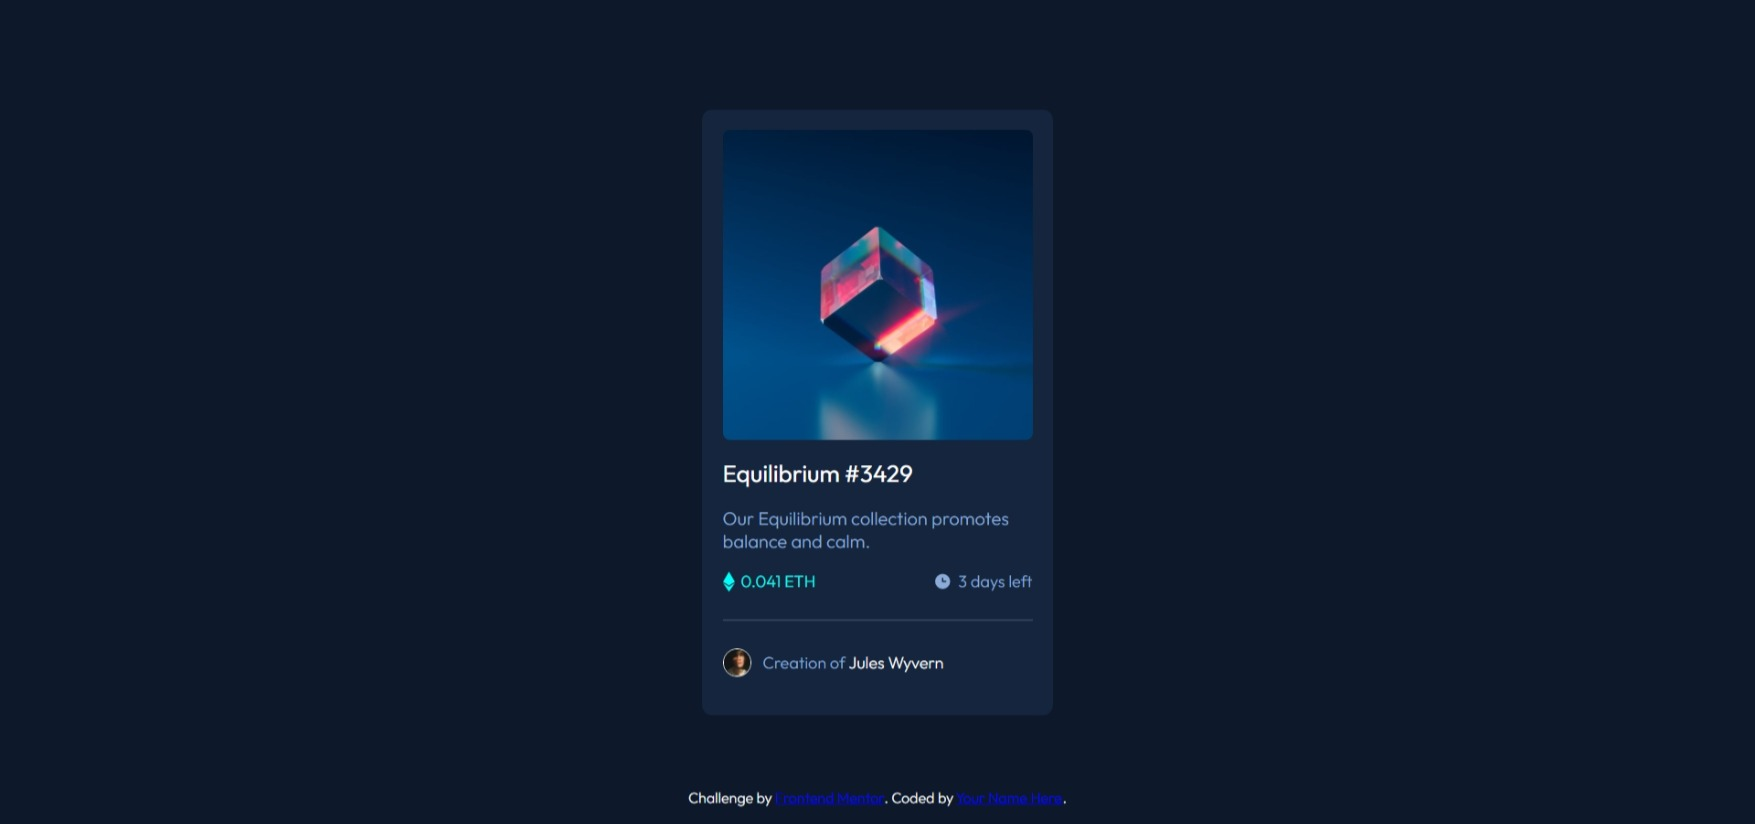
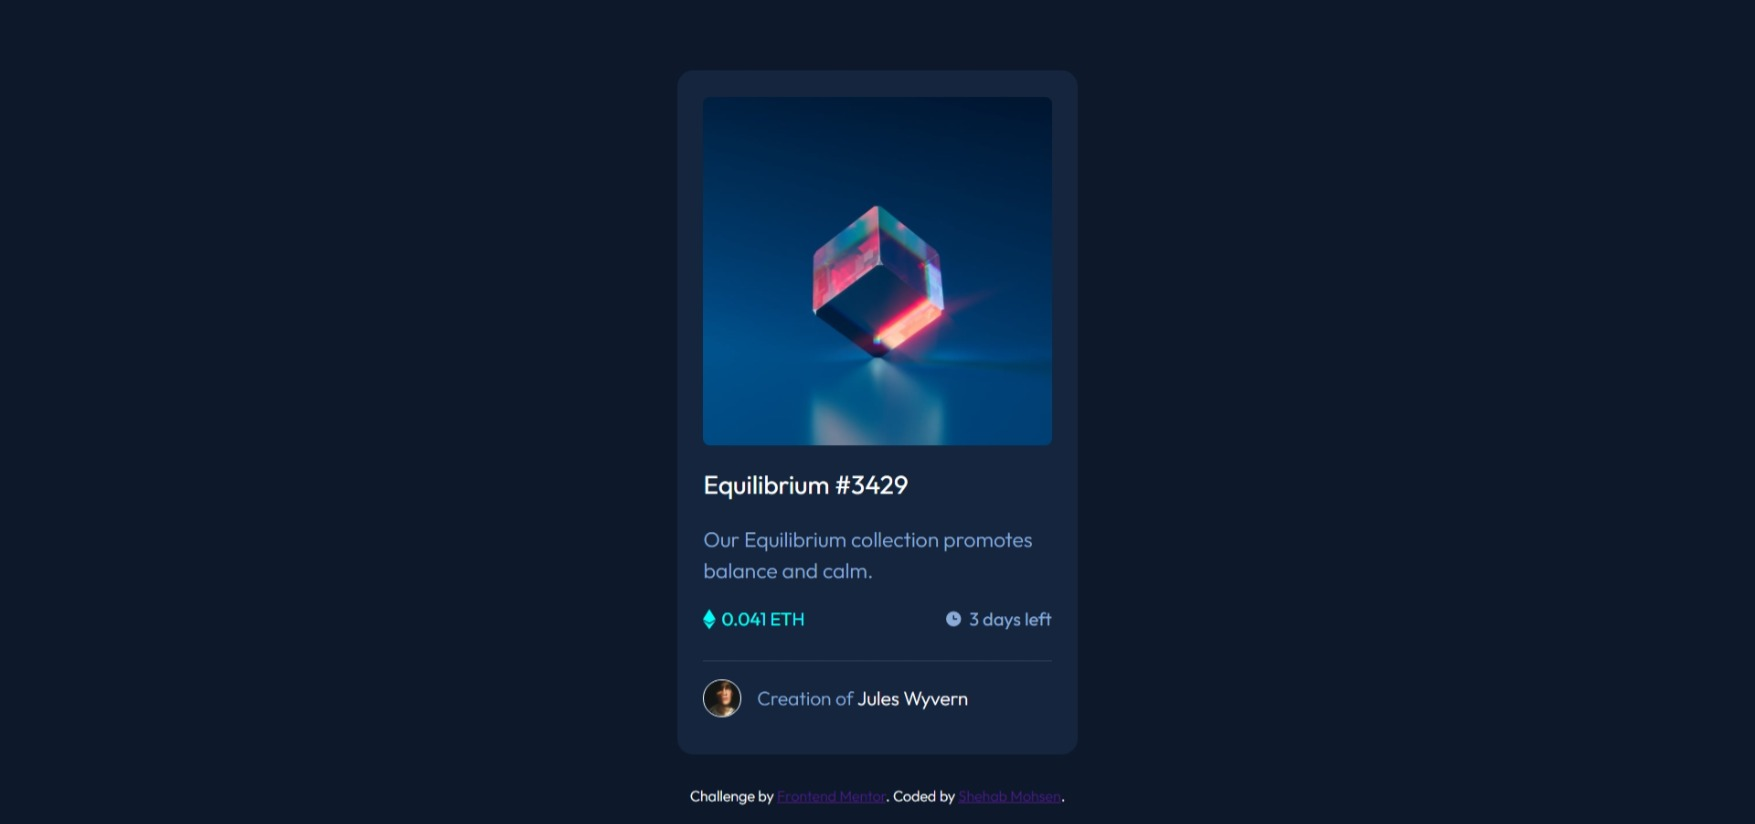
ediiting my desgin image

diff --git a/index.css b/index.css
@@ -24,7 +24,7 @@
 /* body */
 body {
   font-size: 18px;
-  /* background-color: var(--clr-body-background); */
+  background-color: var(--clr-body-background);
   color: var(--clr-soft-blue);
   font-family: "Outfit", sans-serif;
   line-height: 1.5;
@@ -47,7 +47,6 @@ body {
   max-width: 350px;
   min-width: 310px;
   background: var(--clr-card-background);
-  background: red;
   border-radius: 14px;
 }
 .card_image {
